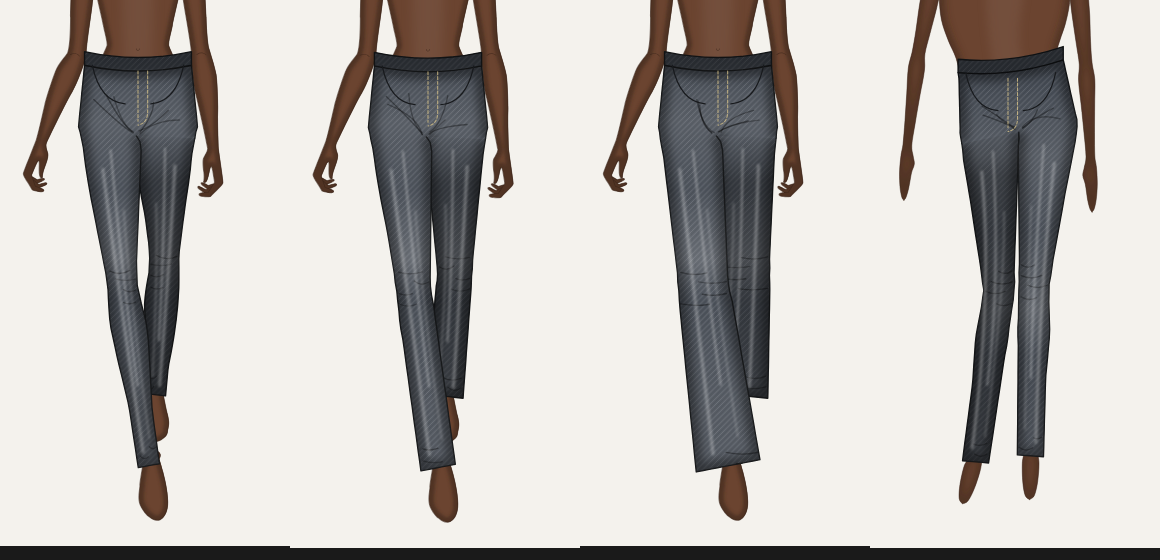
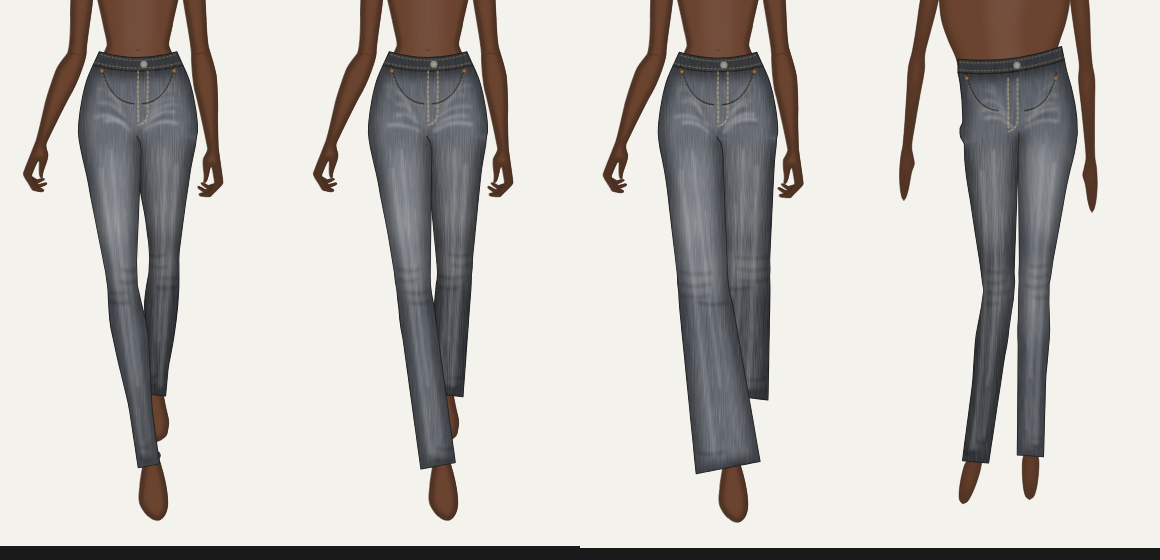
Waist follows the body, denim looks like denim
Hips and waist now track the body at the garment's own ease, the band tapers
in with the waist, and the hip runs smoothly into the thigh. Rendered denim
gets a finer twill, slub grain, faded thighs and knees, whiskers, softer
creases, gold topstitching, rivets and a shank button.

Claude-Session: https://claude.ai/code/session_01N4gmdzgjq2mCxibreUu9UH

diff --git a/src/components/GarmentView.tsx b/src/components/GarmentView.tsx
@@ -9,7 +9,7 @@ import {
   type Garment,
 } from '../model/garment';
 import { mix } from '../model/color';
-import { foldStrokes, highlightStrokes } from '../model/shading';
+import { fadeSpots, foldStrokes, highlightStrokes, whiskerStrokes } from '../model/shading';
 import { polyPath, ripFray, ripPoly, ripThreads, wornPatch } from '../model/rips';
 import { FabricDefs, fabricId, hasOverlay, overlayId } from './FabricDefs';
 
@@ -31,13 +31,15 @@ interface Props {
   legOnly?: boolean;
   /** Darken the whole layer (the leg furthest from the viewer). */
   dim?: boolean;
+  /** Pull the top corners of the waistband in (garment units, left and right). */
+  bandInset?: [number, number];
   /** Suffix for defs ids when the same garment is drawn as more than one layer. */
   layer?: string;
 }
 
 /** Renders one garment from data, in garment space, inside its own transform. */
-export const GarmentView = memo(function GarmentView({ g, selectedText, showCut, rendered, shading, sag = 0, edge, legOnly = false, dim = false, layer = '' }: Props) {
-  const paths = garmentPaths(g, sag);
+export const GarmentView = memo(function GarmentView({ g, selectedText, showCut, rendered, shading, sag = 0, edge, legOnly = false, dim = false, layer = '', bandInset }: Props) {
+  const paths = garmentPaths(g, sag, bandInset);
   const { body } = paths;
   const band = legOnly ? '' : paths.band;
   const details = legOnly ? '' : paths.details;
@@ -55,7 +57,9 @@ export const GarmentView = memo(function GarmentView({ g, selectedText, showCut,
   const maskId = `hm-${uid}`;
 
   const fill = rendered ? `url(#${fabricId(g)})` : base;
-  const outline = rendered ? mix(base, '#000000', 0.7) : '#141414';
+  const outline = rendered ? mix(base, '#000000', 0.62) : '#141414';
+  const sw = rendered ? 1.1 : 1.6;
+  const thread = '#C9A35C';
   const holes = rendered ? g.holes.map((h, i) => ({ h, i, poly: ripPoly(g.id, i, h) })) : [];
 
   return (
@@ -79,6 +83,16 @@ export const GarmentView = memo(function GarmentView({ g, selectedText, showCut,
             </filter>
             <filter id={`wn-${uid}`} x="-40%" y="-40%" width="180%" height="180%">
               <feGaussianBlur stdDeviation={3} />
+            </filter>
+            <filter id={`fd-${uid}`} x="-60%" y="-60%" width="220%" height="220%">
+              <feGaussianBlur stdDeviation={9} />
+            </filter>
+            <filter id={`wk-${uid}`} x="-30%" y="-30%" width="160%" height="160%">
+              <feGaussianBlur stdDeviation={1.5} />
+            </filter>
+            <filter id={`gr-${uid}`} filterUnits="userSpaceOnUse" x={BIG.x} y={BIG.y} width={BIG.w} height={BIG.h}>
+              <feTurbulence type="fractalNoise" baseFrequency="0.9 0.045" numOctaves={2} seed={7} />
+              <feColorMatrix type="saturate" values="0" />
             </filter>
             <mask id={maskId} maskUnits="userSpaceOnUse" x={BIG.x} y={BIG.y} width={BIG.w} height={BIG.h}>
               <rect x={BIG.x} y={BIG.y} width={BIG.w} height={BIG.h} fill="#fff" />
@@ -104,9 +118,9 @@ export const GarmentView = memo(function GarmentView({ g, selectedText, showCut,
       </defs>
       <g clipPath={`url(#${cropId})`}>
         <g mask={rendered && holes.length ? `url(#${maskId})` : undefined}>
-          <path d={body} fill={fill} stroke={edge ? 'none' : outline} strokeWidth={rendered ? 1.4 : 1.6} strokeLinejoin="round" data-kind="garment" data-gid={g.id} />
-          {edge && <path d={edge} fill="none" stroke={outline} strokeWidth={rendered ? 1.4 : 1.6} strokeLinejoin="round" strokeLinecap="round" pointerEvents="none" />}
-          {band && <path d={band} fill={fill} stroke={outline} strokeWidth={rendered ? 1.4 : 1.6} strokeLinejoin="round" data-kind="garment" data-gid={g.id} />}
+          <path d={body} fill={fill} stroke={edge ? 'none' : outline} strokeWidth={sw} strokeLinejoin="round" data-kind="garment" data-gid={g.id} />
+          {edge && <path d={edge} fill="none" stroke={outline} strokeWidth={sw} strokeLinejoin="round" strokeLinecap="round" pointerEvents="none" />}
+          {band && <path d={band} fill={fill} stroke={outline} strokeWidth={sw} strokeLinejoin="round" data-kind="garment" data-gid={g.id} />}
           {rendered && hasOverlay(g) && (
             <g pointerEvents="none">
               <path d={body} fill={`url(#${overlayId(g)})`} />
@@ -128,9 +142,24 @@ export const GarmentView = memo(function GarmentView({ g, selectedText, showCut,
                 <path d={line} />
                 {band && <path d={band} />}
               </g>
-              <g fill="none" stroke="#000" strokeLinecap="round">
+              {g.fabric === 'Denim' && (
+                <rect x={BIG.x} y={BIG.y} width={BIG.w} height={BIG.h} filter={`url(#gr-${uid})`} opacity={0.32} style={{ mixBlendMode: 'overlay' }} />
+              )}
+              <g fill="#fff" filter={`url(#fd-${uid})`}>
+                {fadeSpots(g).map((s, i) => (
+                  <ellipse key={i} cx={s.cx} cy={s.cy} rx={s.rx} ry={s.ry} opacity={s.o} />
+                ))}
+              </g>
+              {!legOnly && (
+                <g fill="none" stroke="#fff" strokeLinecap="round" filter={`url(#wk-${uid})`}>
+                  {whiskerStrokes(g).map((s, i) => (
+                    <path key={i} d={s.d} strokeWidth={s.w} opacity={s.o} />
+                  ))}
+                </g>
+              )}
+              <g fill="none" stroke="#000" strokeLinecap="round" filter={`url(#wk-${uid})`}>
                 {foldStrokes(g).map((s, i) => (
-                  <path key={i} d={s.d} strokeWidth={s.w} opacity={s.o} />
+                  <path key={i} d={s.d} strokeWidth={s.w * 1.6} opacity={s.o * 0.9} />
                 ))}
               </g>
               <g fill="none" stroke="#fff" strokeLinecap="round" filter={`url(#sf-${uid})`}>
@@ -141,7 +170,18 @@ export const GarmentView = memo(function GarmentView({ g, selectedText, showCut,
             </g>
           )}
           <path d={details} fill="none" stroke={rendered ? '#D9C48A' : dark ? '#C9CDD2' : '#5A5A5A'} strokeOpacity={rendered ? 0.8 : 1} strokeWidth={1.1} strokeLinecap="round" strokeDasharray="3 2" pointerEvents="none" />
-          <path d={solid} fill="none" stroke={rendered ? mix(base, '#000000', 0.65) : '#141414'} strokeWidth={1.3} strokeLinecap="round" strokeLinejoin="round" pointerEvents="none" />
+          <path d={solid} fill="none" stroke={rendered ? mix(base, '#000000', 0.65) : '#141414'} strokeWidth={rendered ? 1 : 1.3} strokeLinecap="round" strokeLinejoin="round" pointerEvents="none" />
+          {rendered && !legOnly && (
+            <g pointerEvents="none">
+              <path d={solid} fill="none" stroke={thread} strokeOpacity={0.75} strokeWidth={0.8} strokeDasharray="2.2 1.6" transform="translate(0 2.2)" />
+              <path d={paths.stitch} fill="none" stroke={thread} strokeOpacity={0.8} strokeWidth={0.8} strokeDasharray="2.2 1.6" />
+              {paths.rivets.map((r, i) => (
+                <circle key={i} cx={r.x} cy={r.y} r={1.8} fill="#B07A45" stroke="#5C3A1E" strokeWidth={0.5} />
+              ))}
+              <circle cx={paths.button.x} cy={paths.button.y} r={3.8} fill="#A6A49E" stroke="#4A4844" strokeWidth={0.7} />
+              <circle cx={paths.button.x} cy={paths.button.y} r={2} fill="none" stroke="#6E6C67" strokeWidth={0.5} />
+            </g>
+          )}
           <g clipPath={`url(#${shapeId})`}>
             {g.distress.map((d, i) => {
               if (!rendered) {

diff --git a/src/model/conform.ts b/src/model/conform.ts
@@ -18,6 +18,8 @@ export interface Fitted {
   g: Garment;
   /** Index into g.points for each original point. */
   index: number[];
+  /** How far to pull the top corners of the waistband in, garment units, left and right. */
+  bandInset: [number, number];
   /** When one leg is behind the other: draw `back` first, then `front` over it. */
   layers: { back: Layer; front: Layer } | null;
 }
@@ -55,7 +57,8 @@ function hipAt(body: BodyProfile, y: number): { l: number; r: number } | null {
   return h[h.length - 1];
 }
 
-function pushFromBone(bone: BoneProf, p: Vec, side: 'left' | 'right'): Vec {
+/** snap: near the top of the thigh, ease toward the hip ease so the side line runs on smoothly. */
+function pushFromBone(bone: BoneProf, p: Vec, side: 'left' | 'right', snap?: { ease: number; until: number }): Vec {
   const dx = bone.b.x - bone.a.x, dy = bone.b.y - bone.a.y;
   const L = Math.hypot(dx, dy) || 1;
   const u = { x: dx / L, y: dy / L };
@@ -67,9 +70,16 @@ function pushFromBone(bone: BoneProf, p: Vec, side: 'left' | 'right'): Vec {
   const base = { x: bone.a.x + u.x * t * L, y: bone.a.y + u.y * t * L };
   let d = (p.x - base.x) * n.x + (p.y - base.y) * n.y;
   const need = w + EASE.leg;
+  const d0 = d;
   if (side === 'left' && -d < need) d = -need;
   else if (side === 'right' && d < need) d = need;
-  else return p;
+  if (snap && t < snap.until) {
+    const target = (w + snap.ease) * (side === 'left' ? -1 : 1);
+    const k = Math.max(0, t) / snap.until;
+    const blend = k * k * (3 - 2 * k);
+    d = target + (d - target) * blend;
+  }
+  if (d === d0) return p;
   return { x: base.x + n.x * d, y: base.y + n.y * d };
 }
 
@@ -101,7 +111,7 @@ export function fitGarment(g: Garment, rig: PoseRigOut, body: BodyProfile, sag: 
   const at = (k: string) => points.findIndex((p) => p.key === k);
   const iWL = at('waistL'), iWR = at('waistR'), iHRo = at('hemRo'), iHRi = at('hemRi'), iCr = at('crotch'), iHLi = at('hemLi'), iHLo = at('hemLo');
   if (rig.identity || [iWL, iWR, iHRo, iHRi, iCr, iHLi, iHLo].some((i) => i < 0)) {
-    return { g, index: points.map((_, i) => i), layers: null };
+    return { g, index: points.map((_, i) => i), layers: null, bandInset: [0, 0] };
   }
 
   const n = points.length;
@@ -154,6 +164,18 @@ export function fitGarment(g: Garment, rig: PoseRigOut, body: BodyProfile, sag: 
   const toGarment = (q: Vec) => ({ x: (q.x - t.x) / t.scale, y: (q.y - t.y) / t.scale });
   const regionOf = (q: Vec) => rig.regions.find((r) => q.x >= r.rect.x0 && q.x < r.rect.x1 && q.y >= r.rect.y0 && q.y < r.rect.y1);
 
+  // how loose the garment is over the hips: the hips and waist follow the body at that ease
+  const hipEase = (key: string, side: 'l' | 'r') => {
+    const hp = points.find((p) => p.key === key);
+    if (!hp) return EASE.hip;
+    const w = poseWarp(rig, toCanvas(hp));
+    const h = hipAt(body, w.y);
+    if (!h) return EASE.hip;
+    const e = side === 'l' ? h.l - w.x : w.x - h.r;
+    return Math.max(EASE.hip, Math.min(16, e));
+  };
+  const easeL = hipEase('hipL', 'l'), easeR = hipEase('hipR', 'r');
+
   const placed = pts.map(({ p, chain }) => {
     const q = toCanvas(p);
     let w = poseWarp(rig, q);
@@ -162,16 +184,36 @@ export function fitGarment(g: Garment, rig: PoseRigOut, body: BodyProfile, sag: 
       if (r && (r.id === 'pL' || r.id === 'pR')) {
         if (chain === 'outL' || chain === 'outR') {
           const h = hipAt(body, w.y);
-          if (h) w = chain === 'outL' ? { x: Math.min(w.x, h.l - EASE.hip), y: w.y } : { x: Math.max(w.x, h.r + EASE.hip), y: w.y };
+          if (h) w = chain === 'outL' ? { x: h.l - easeL, y: w.y } : { x: h.r + easeR, y: w.y };
         }
       } else if (r) {
         const s = r.id.endsWith('L') ? 0 : 1;
         const bone = body.legs[s][r.id.startsWith('t') ? 0 : 1];
-        if (bone) w = pushFromBone(bone, w, chain === 'outL' || chain === 'inR' ? 'left' : 'right');
+        const outer = chain === 'outL' || chain === 'outR';
+        const snap = outer && r.id.startsWith('t') ? { ease: chain === 'outL' ? easeL : easeR, until: 0.35 } : undefined;
+        if (bone) w = pushFromBone(bone, w, chain === 'outL' || chain === 'inR' ? 'left' : 'right', snap);
       }
     }
     return { ...p, ...toGarment(w) };
   });
+
+  // rebuild the waist edge between the fitted waist corners, with the curve
+  const wl = placed[index[iWL]], wr = placed[index[iWR]];
+  for (let i = index[iWL] + 1, j = 1; i < index[iWR]; i++, j++) {
+    const u = j / (index[iWR] - index[iWL]);
+    placed[i] = { ...placed[i], x: wl.x + (wr.x - wl.x) * u, y: wl.y + (wr.y - wl.y) * u + sag * 4 * u * (1 - u) };
+  }
+  // the body narrows above the waist, so the top of the band comes in with it
+  const bandInset: [number, number] = [0, 0];
+  {
+    const cw = (p: Vec) => toCanvas(p);
+    const yW = cw(wl).y, yT = yW - 14 * t.scale;
+    const hW = hipAt(body, yW), hT = hipAt(body, yT);
+    if (hW && hT) {
+      bandInset[0] = Math.max(0, Math.min(10, (hT.l - hW.l) / t.scale));
+      bandInset[1] = Math.max(0, Math.min(10, (hW.r - hT.r) / t.scale));
+    }
+  }
 
   const warpPt = <T extends { x: number; y: number }>(o: T): T => ({ ...o, ...toGarment(poseWarp(rig, toCanvas(o))) });
 
@@ -217,5 +259,5 @@ export function fitGarment(g: Garment, rig: PoseRigOut, body: BodyProfile, sag: 
     }
   }
 
-  return { g: fitted, index, layers };
+  return { g: fitted, index, layers, bandInset };
 }

diff --git a/src/model/shading.ts b/src/model/shading.ts
@@ -45,13 +45,13 @@ export function foldStrokes(g: Garment): Stroke[] {
 
   // crotch: strokes fanning up and out
   const cr = findPoint(p, 'crotch');
-  for (let k = 0; k < (has(g, 'crotch', 'waistL') ? 6 : 0); k++) {
+  for (let k = 0; k < (has(g, 'crotch', 'waistL') ? 4 : 0); k++) {
     const side = k % 2 ? 1 : -1;
     const sx = cr.x + side * (2 + r() * 3);
     const sy = cr.y - 2 - r() * 4;
     const ex = cr.x + side * (16 + r() * 30);
     const ey = cr.y - 10 - r() * 36;
-    out.push({ d: `M${n1(sx)},${n1(sy)} Q${n1(cr.x + side * (8 + r() * 10))},${n1(cr.y - 8 - r() * 14)} ${n1(ex)},${n1(ey)}`, w: 1.4, o: 0.28 + r() * 0.1 });
+    out.push({ d: `M${n1(sx)},${n1(sy)} Q${n1(cr.x + side * (8 + r() * 10))},${n1(cr.y - 8 - r() * 14)} ${n1(ex)},${n1(ey)}`, w: 1.2, o: 0.16 + r() * 0.08 });
   }
 
   // hem stacking
@@ -89,8 +89,54 @@ export function highlightStrokes(g: Garment): Stroke[] {
       const m = L[1];
       const e = lerp(L[1], L[2], s.b);
       const ey = Math.min(e.y, bottom - 8);
-      out.push({ d: `M${n1(a.x)},${n1(a.y)} Q${n1(m.x)},${n1(m.y)} ${n1(e.x)},${n1(ey)}`, w: s.w, o: s.o });
+      out.push({ d: `M${n1(a.x)},${n1(a.y)} Q${n1(m.x)},${n1(m.y)} ${n1(e.x)},${n1(ey)}`, w: s.w * 1.3, o: s.o * 0.5 });
     }
+  }
+  return out;
+}
+
+/** Faded whiskers fanning out from the crotch toward the hips, like a worn wash. */
+export function whiskerStrokes(g: Garment): Stroke[] {
+  if (!has(g, 'crotch', 'hipL', 'hipR')) return [];
+  const r = rng(g.id + ':whisk');
+  const p = g.points;
+  const cr = findPoint(p, 'crotch');
+  const out: Stroke[] = [];
+  for (const side of [-1, 1]) {
+    const hip = findPoint(p, side < 0 ? 'hipL' : 'hipR');
+    for (let k = 0; k < 5; k++) {
+      const sx = cr.x + side * (5 + k * 3 + r() * 3);
+      const sy = cr.y - 4 - k * 7 - r() * 3;
+      const ex = cr.x + (hip.x - cr.x) * (0.5 + r() * 0.25);
+      const ey = sy - 5 - r() * 7 - k * 2;
+      const cx = (sx + ex) / 2, cy = Math.min(sy, ey) - 2 - r() * 4;
+      out.push({ d: `M${n1(sx)},${n1(sy)} Q${n1(cx)},${n1(cy)} ${n1(ex)},${n1(ey)}`, w: 2.6 - k * 0.3, o: 0.34 - k * 0.04 });
+    }
+  }
+  return out;
+}
+
+export interface Spot {
+  cx: number;
+  cy: number;
+  rx: number;
+  ry: number;
+  o: number;
+}
+
+/** Soft faded patches down the front of each thigh and over the knees. */
+export function fadeSpots(g: Garment): Spot[] {
+  const p = g.points;
+  const out: Spot[] = [];
+  for (const [hip, ko, ki] of [['hipL', 'kneeLo', 'kneeLi'], ['hipR', 'kneeRo', 'kneeRi']] as const) {
+    if (!has(g, hip, ko, ki, 'crotch')) continue;
+    const h = findPoint(p, hip), cr = findPoint(p, 'crotch'), o = findPoint(p, ko), i = findPoint(p, ki);
+    const top = { x: (h.x + cr.x) / 2, y: (h.y + cr.y) / 2 };
+    const knee = { x: (o.x + i.x) / 2, y: (o.y + i.y) / 2 };
+    const kw = Math.abs(o.x - i.x);
+    const tw = Math.abs(h.x - cr.x);
+    out.push({ cx: top.x + (knee.x - top.x) * 0.42, cy: top.y + (knee.y - top.y) * 0.42, rx: tw * 0.28, ry: (knee.y - top.y) * 0.32, o: 0.2 });
+    out.push({ cx: knee.x, cy: knee.y - 6, rx: kw * 0.3, ry: 18, o: 0.14 });
   }
   return out;
 }

diff --git a/src/model/garment.ts b/src/model/garment.ts
@@ -164,19 +164,28 @@ export interface GarmentPaths {
   details: string;
   solid: string;
   strap: string;
+  /** Topstitching along the band, and rivet and button positions. */
+  stitch: string;
+  rivets: { x: number; y: number }[];
+  button: { x: number; y: number };
 }
 
 /** sag: how far the waist edge dips at the centre (garment units), so the band wraps the body. */
-export function garmentPaths(g: Pick<Garment, 'points' | 'parts'>, sag = 0): GarmentPaths {
+export function garmentPaths(g: Pick<Garment, 'points' | 'parts'>, sag = 0, inset: [number, number] = [0, 0]): GarmentPaths {
   const pts = g.points;
   const body = 'M' + pts.map((p) => f(p.x, p.y)).join(' L') + ' Z';
   const wl = findPoint(pts, 'waistL');
   const wr = findPoint(pts, 'waistR');
   const top = wl.y;
   const mx = (wl.x + wr.x) / 2;
+  const my = (wl.y + wr.y) / 2;
+  const tl = wl.x + inset[0], tr = wr.x - inset[1];
   const band =
-    'M' + f(wl.x, wl.y - 14) + ' Q' + f(mx, (wl.y + wr.y) / 2 - 14 + sag * 2) + ' ' + f(wr.x, wr.y - 14) +
-    ' L' + f(wr.x, wr.y) + ' Q' + f(mx, (wl.y + wr.y) / 2 + sag * 2) + ' ' + f(wl.x, wl.y) + ' Z';
+    'M' + f(tl, wl.y - 14) + ' Q' + f(mx, my - 14 + sag * 2) + ' ' + f(tr, wr.y - 14) +
+    ' L' + f(wr.x, wr.y) + ' Q' + f(mx, my + sag * 2) + ' ' + f(wl.x, wl.y) + ' Z';
+  const stitch =
+    'M' + f(tl + 1.5, wl.y - 11) + ' Q' + f(mx, my - 11 + sag * 2) + ' ' + f(tr - 1.5, wr.y - 11) +
+    ' M' + f(wl.x + 1, wl.y - 3) + ' Q' + f(mx, my - 3 + sag * 2) + ' ' + f(wr.x - 1, wr.y - 3);
   const ct = top + sag;
   const details =
     'M' + f(150, ct) + ' V' + (ct + 52) +
@@ -213,7 +222,11 @@ export function garmentPaths(g: Pick<Garment, 'points' | 'parts'>, sag = 0): Gar
     const b = findPoint(pts, 'kneeRi');
     strap = 'M' + f(a.x - 4, a.y + 26) + ' Q' + f(150, a.y + 56) + ' ' + f(b.x + 4, b.y + 26);
   }
-  return { body, band, details, solid, strap };
+  const rivets = [
+    { x: wl.x + 9, y: top + 4 + sag * 0.3 },
+    { x: wr.x - 9, y: top + 4 + sag * 0.3 },
+  ];
+  return { body, band, details, solid, strap, stitch, rivets, button: { x: mx + 6, y: my - 7 + sag } };
 }
 
 /** Zig-zag line used for raw edges and rips. */

diff --git a/src/components/FabricDefs.tsx b/src/components/FabricDefs.tsx
@@ -34,10 +34,10 @@ export function FabricDefs({ g }: { g: Garment }) {
   switch (g.fabric) {
     case 'Denim':
       tile = (
-        <Tile g={g} w={6} h={6}>
-          <rect width={6} height={6} fill={base} />
-          <path d="M-1,7 L7,-1 M-1,1 L1,-1 M5,7 L7,5" stroke={light} strokeOpacity={0.4} strokeWidth={0.9} />
-          <path d="M-1,4 L4,-1 M2,7 L7,2" stroke={dark} strokeOpacity={0.3} strokeWidth={0.8} />
+        <Tile g={g} w={3} h={3}>
+          <rect width={3} height={3} fill={base} />
+          <path d="M-0.5,3.5 L3.5,-0.5" stroke={light} strokeOpacity={0.22} strokeWidth={0.6} />
+          <path d="M-0.5,2 L2,-0.5 M1,3.5 L3.5,1" stroke={dark} strokeOpacity={0.22} strokeWidth={0.45} />
         </Tile>
       );
       overlay = (

diff --git a/src/components/Canvas.tsx b/src/components/Canvas.tsx
@@ -394,6 +394,7 @@ export function Canvas() {
             rendered,
             shading: doc.settings.shading,
             sag: rig.identity ? 0 : sag,
+            bandInset: fit.bandInset,
           };
           if (fit.layers) {
             return (
